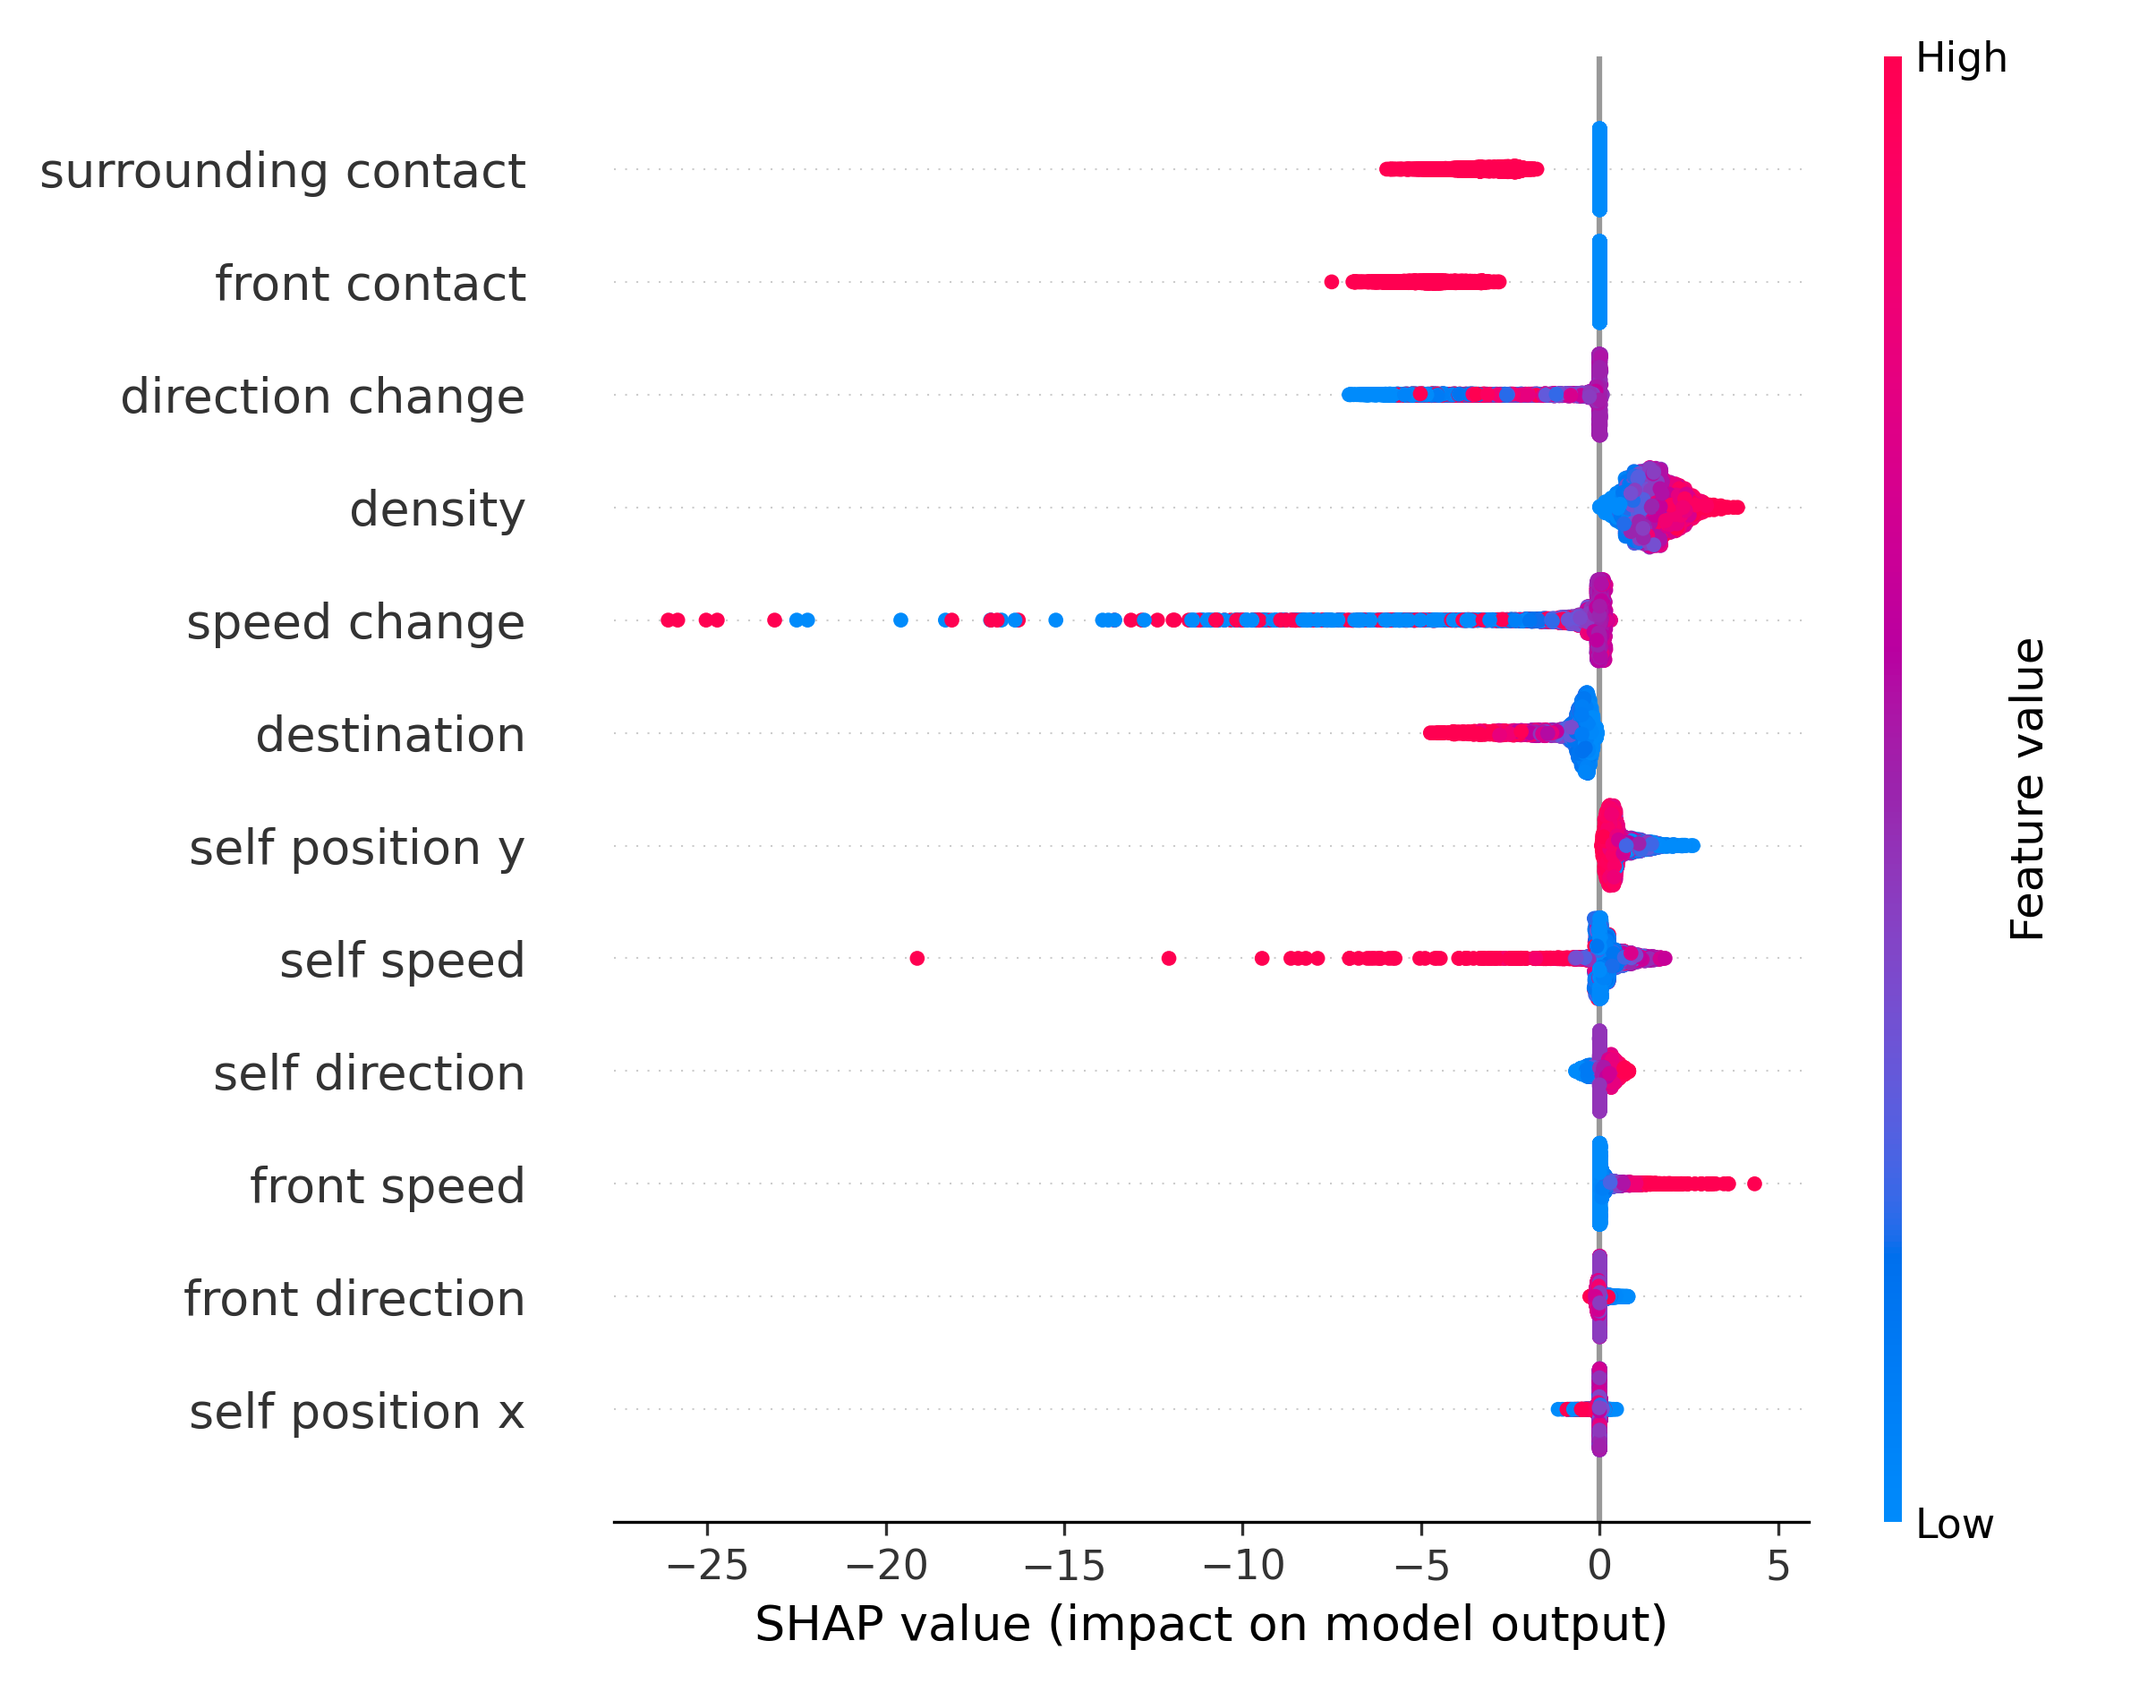
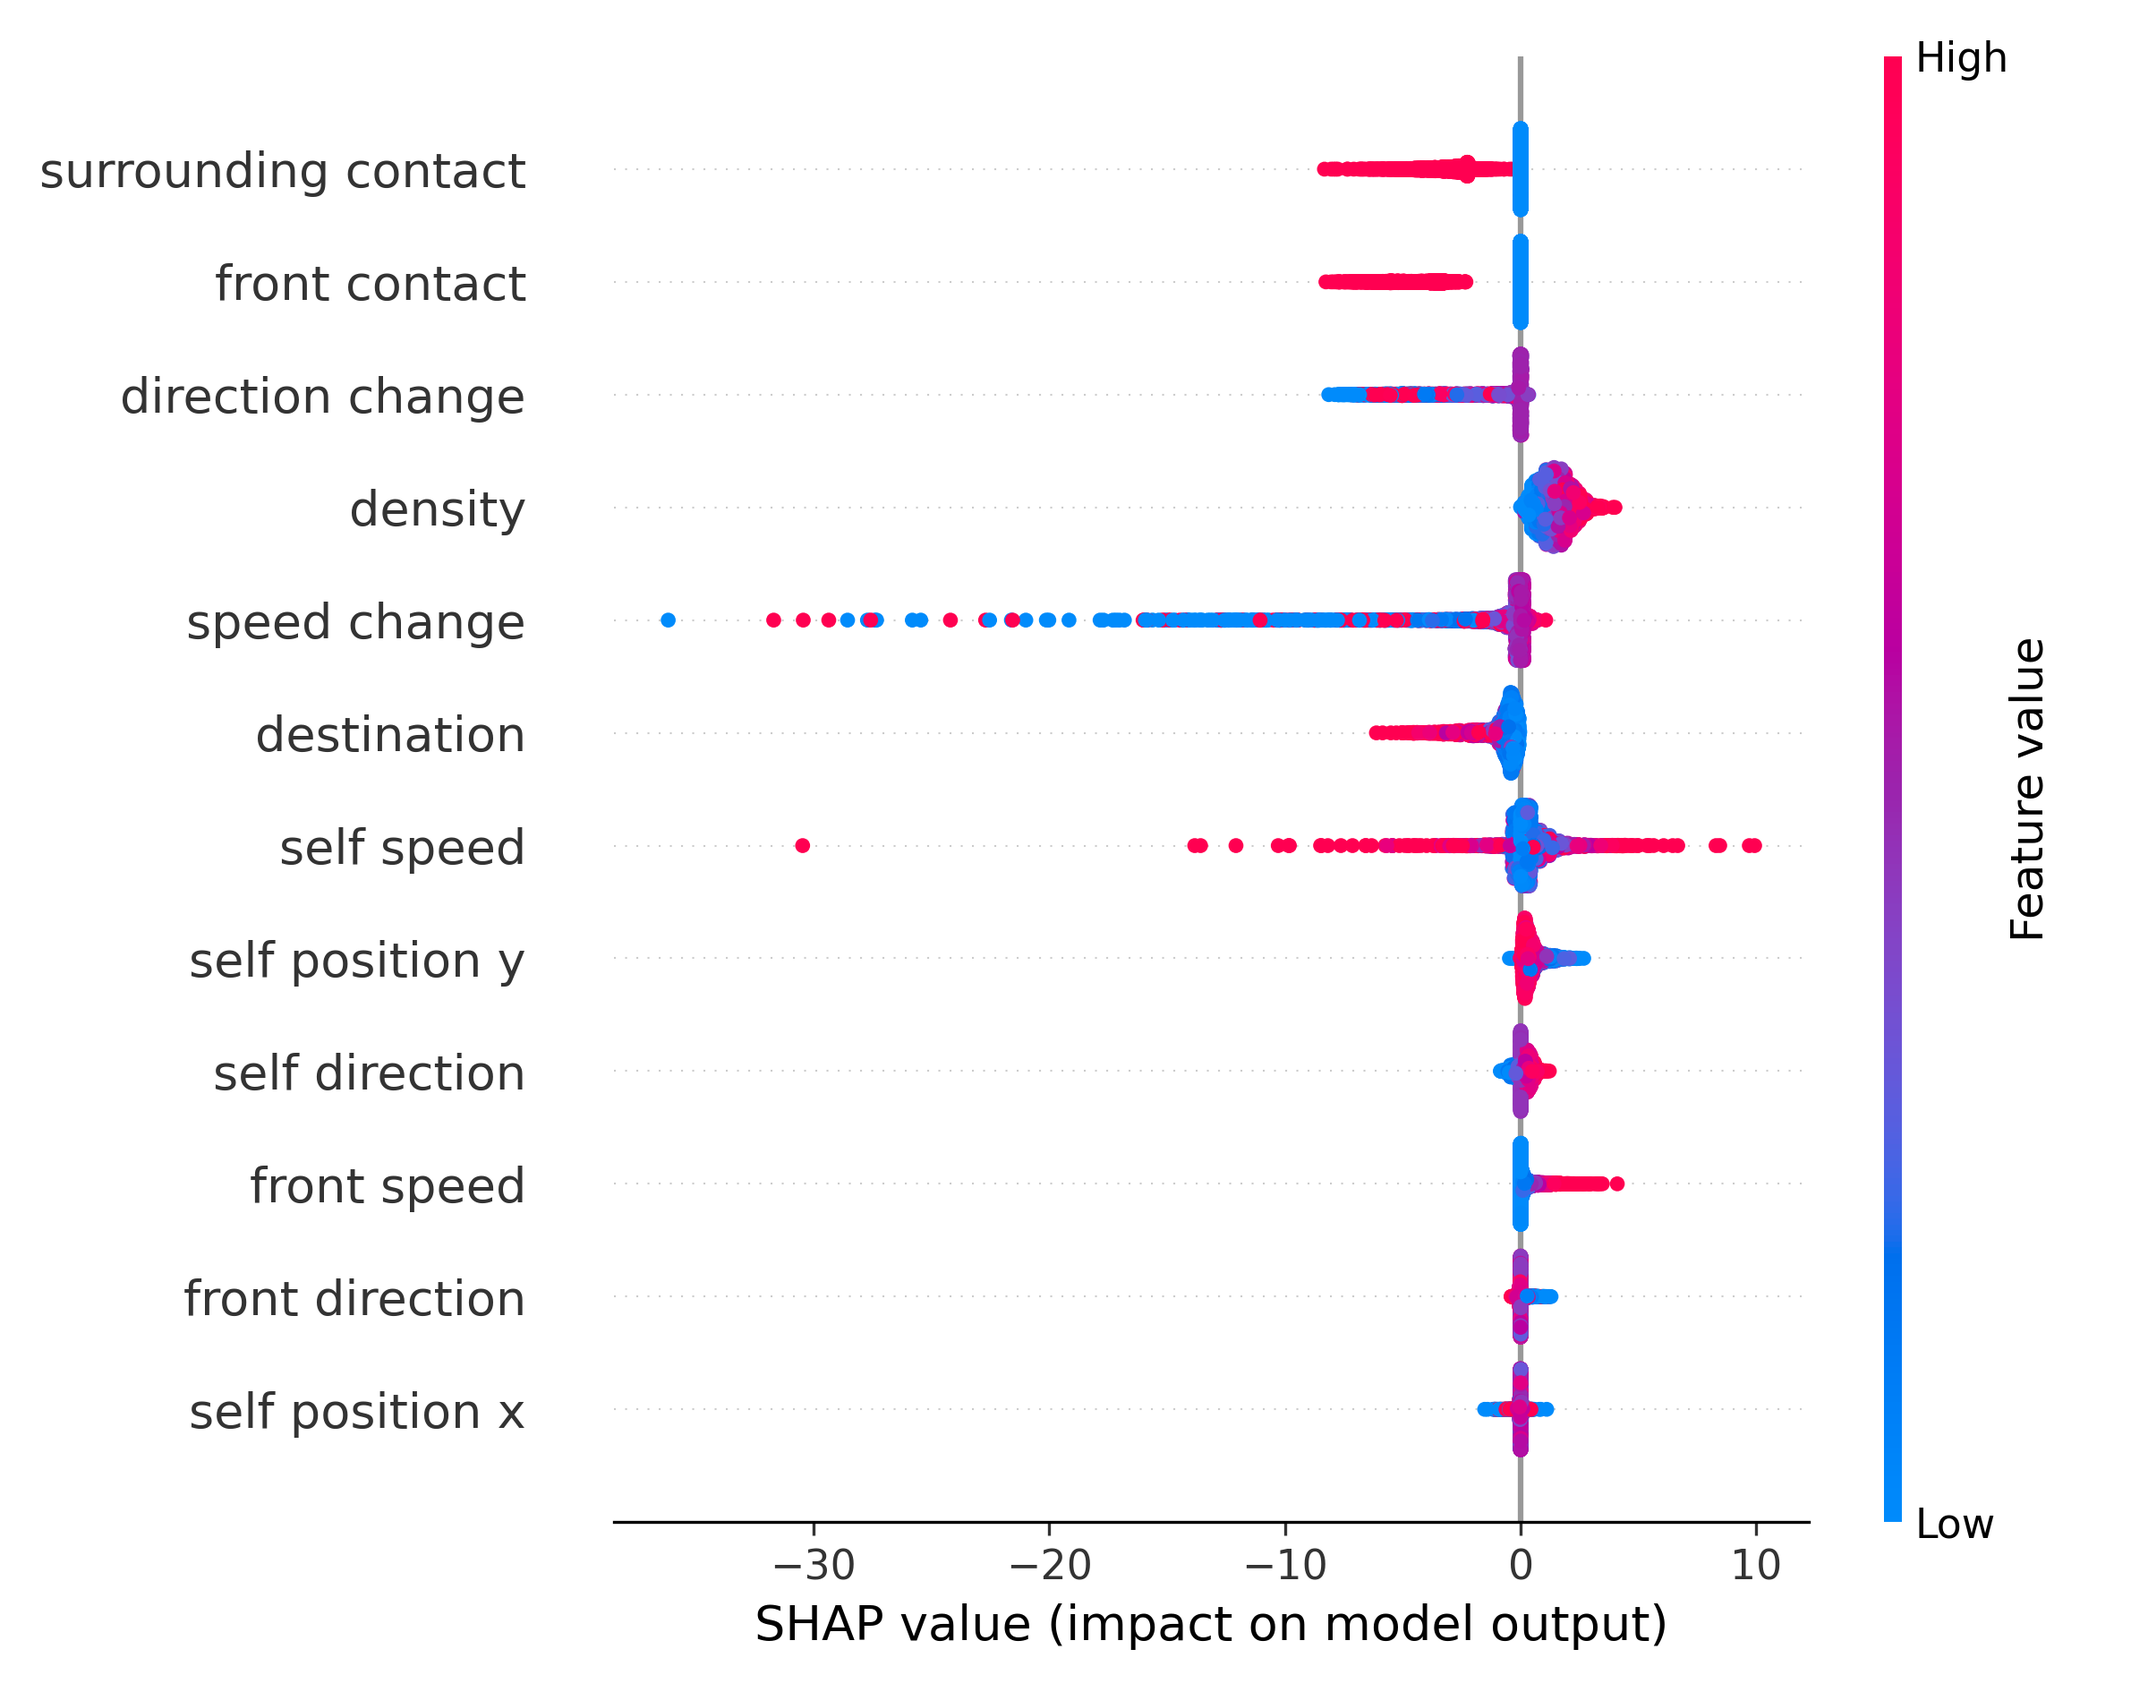
updated the SHAP calculation and plotting

diff --git a/reward analysis.py b/reward analysis.py
@@ -16,13 +16,22 @@ from imitation.rewards.reward_nets import BasicShapedRewardNet
 from imitation.algorithms.base import make_data_loader
 from imitation.rewards.reward_nets import RewardNet
 from imitation.util.networks import RunningNorm
-
+import inspect
 from captum.attr import (IntegratedGradients, GradientShap, Saliency,InputXGradient,
                          DeepLift,DeepLiftShap, FeatureAblation,Occlusion, FeaturePermutation, ShapleyValueSampling, KernelShap)
 import shap
 
 SEED = 1
 patient = False
+
+class WrappedRewardNet(torch.nn.Module):
+    def __init__(self, reward_net):
+        super().__init__()
+        self.reward_net = reward_net
+
+    def forward(self, x):
+        obs, acts, next_obs, dones = torch.split(x, [10, 2, 10, 1], dim=-1)
+        return self.reward_net(obs, acts, next_obs, dones)
 
 x_axis_data_labels = [
     'self position x', 'self position y', 'destination', 'self speed', 'self direction',
@@ -46,6 +55,10 @@ for _ in range(2):
         reward_net = torch.load('./model/impatient/Rush Reward.pth')
         rollouts = Rush.load_trajectories('./env/Rush_Data/Impatient/Testing Trajectories')
 
+    print(reward_net)
+    print(policy.policy)
+    exit()
+
     reward_net = reward_net._base
     reward_net.eval()
     obs = []
@@ -56,7 +69,10 @@ for _ in range(2):
         obs.append(rollouts[i].obs[:-1])
         acts.append(rollouts[i].acts)
         next_obs.append(rollouts[i].obs[:-1])
-        dones.append(np.zeros(len(obs)))
+        traj_len = len(rollouts[i].acts)
+        done_flags = np.zeros((traj_len, 1), dtype=np.float32)
+        done_flags[-1] = 1.0  # Mark last transition in trajectory as done
+        dones.append(done_flags)
 
     obs = np.concatenate(obs)
     acts = np.concatenate(acts)
@@ -70,42 +86,36 @@ for _ in range(2):
         dones,
     )
 
+    print("obs shape:", obs.shape)
+    print("acts shape:", acts.shape)
+    print("next_obs shape:", next_obs.shape)
+    print("dones shape:", dones.shape)
+
     # Initialize attribution methods
-    svs = ShapleyValueSampling(reward_net)
+    # svs = ShapleyValueSampling(reward_net)
+    wrapped_reward = WrappedRewardNet(reward_net)
+    svs = GradientShap(wrapped_reward)
+    X_input = torch.cat([obs, acts, next_obs, dones], dim=-1)
+    baseline = torch.zeros_like(X_input)
+
+    print(inspect.signature(reward_net.forward))
 
     # Compute attributions
-    attr_svs = svs.attribute(X_test)
-
-    attr_svs_norm_sums = []
-    attr_svs_stds = []
+    # attr_svs = svs.attribute(X_test)
+    attr_svs = svs.attribute(inputs=X_input, baselines=baseline)
     shap_values_list = []
 
-    for i in range(min(len(attr_svs), 2)):
+    for i in range(len(attr_svs)):
         # Convert to numpy
-        vals = attr_svs[i].detach().numpy()  # shape: (num_samples, num_features) or something similar
-
-        # Sum across the first dimension (0) to aggregate attributions over samples
-        mean_vals = abs(vals).mean(axis=0)
-        # Compute the standard deviation across the same dimension
-        std_vals = vals.std(axis=0)
-
-        # Store results
-        attr_svs_norm_sums.append(mean_vals)
-        attr_svs_stds.append(std_vals)
-
+        vals = attr_svs[i].detach().numpy()
         # Store SHAP values for beeswarm
-        shap_values_list.append(vals)
-
-    # Concatenate results
-    attr_svs_norm_sum = np.concatenate(attr_svs_norm_sums)
-    attr_svs_std = np.concatenate(attr_svs_stds)
-
-    feature_sums.append(attr_svs_norm_sum)
-    feature_stds.append(attr_svs_std)
+        shap_values_list.append(vals[:12])
 
     # Combine observations and actions into a single feature matrix
     features = np.concatenate([obs, acts], axis=1)
-    shap_value = np.concatenate(shap_values_list, axis=1)
+    shap_value = np.stack(shap_values_list, axis=-1)
+    shap_value = shap_value.T
+
     # Define the title based on whether it's "Impatient" or "Patient"
     model_type = "Impatient" if not patient else "Patient"
 

diff --git a/benchmark/Social Force/Simulate.py b/benchmark/Social Force/Simulate.py
@@ -8,7 +8,7 @@ sys.path.append('../../')
 from env.utils import withinSight, getPositions,getDensity, getFront, getContact_new
 from utils import retrieveOriginalTrajectory
 
-impatient = False
+impatient = True
 simulation_steps = 500
 seed = 42
 distance_threshold = 2.58
@@ -134,7 +134,7 @@ while step < simulation_steps:
         f_repulsion = ego.compute_repulsion_force(direction_flags)
         density = getDensity(positions, ego.pos[0], ego.pos[1], ego.direction)
         f_density = ego.compute_density_force(density)
-        total_force = (f_drive + f_repulsion + f_density) * 1
+        total_force = (f_drive + f_repulsion + f_density) * 0.01
         ego.update(total_force)
         sim_traj.append(ego.pos.copy())
         real_x = ped.iloc[time_step, mapping['Positionx']]
@@ -151,8 +151,8 @@ while step < simulation_steps:
 
 print(np.mean(ADEs), np.mean(FDEs))
 
-# impatient 0.76 1.50
-# patient 0.80 1.44
+# impatient 0.44 1.37
+# patient 0.30 1.31
 
 
 
